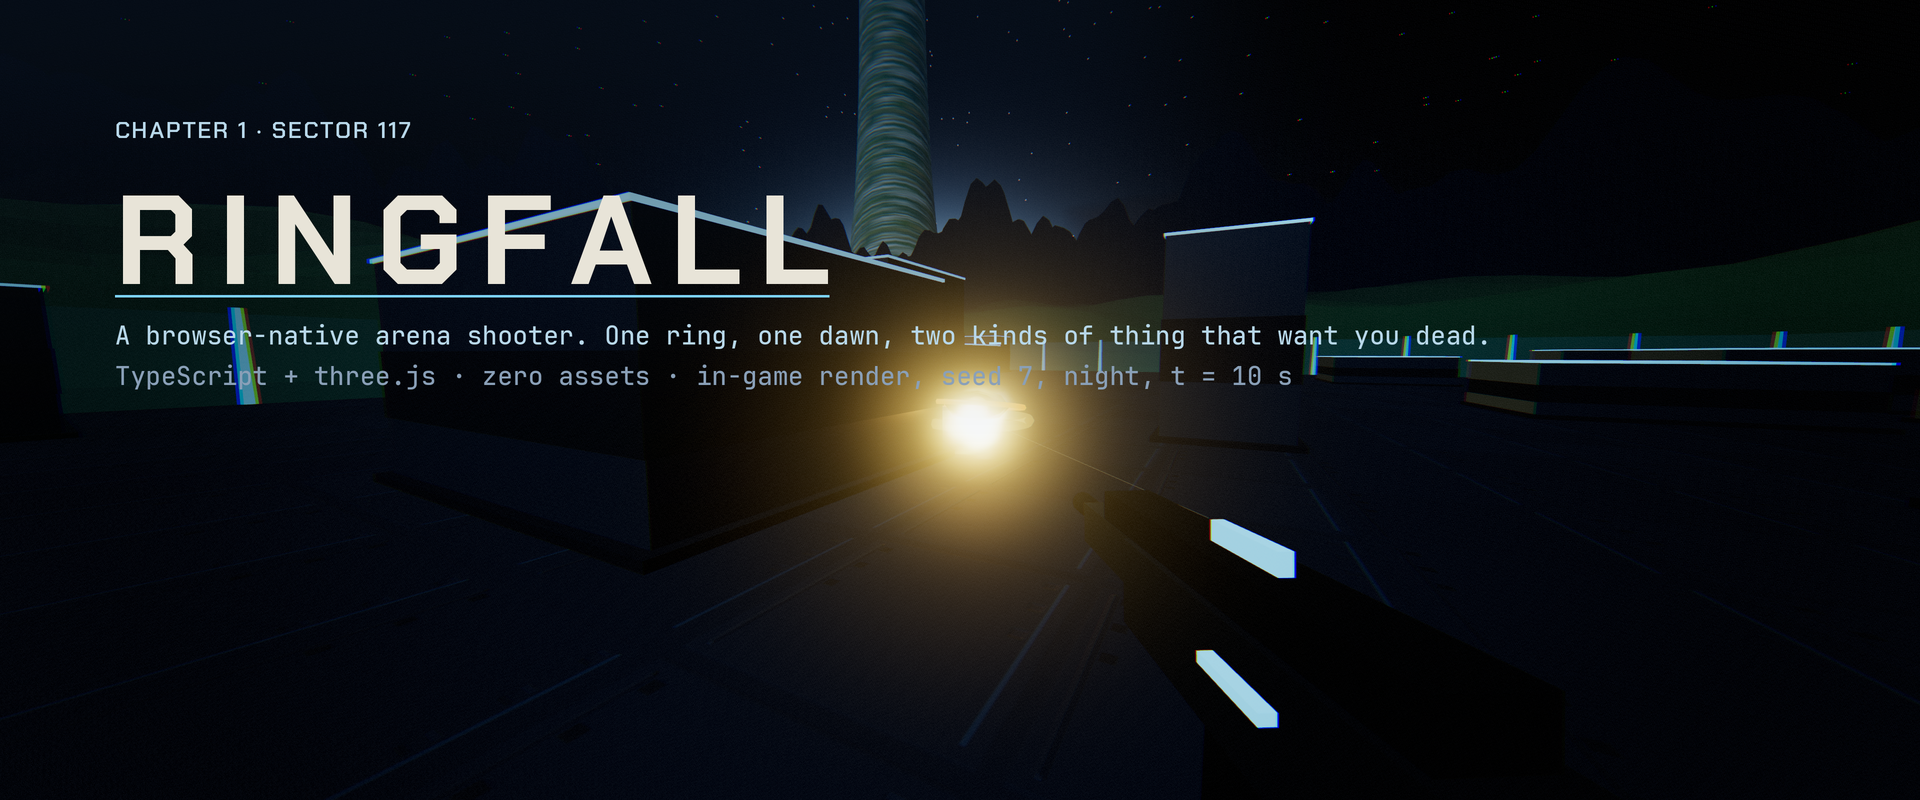
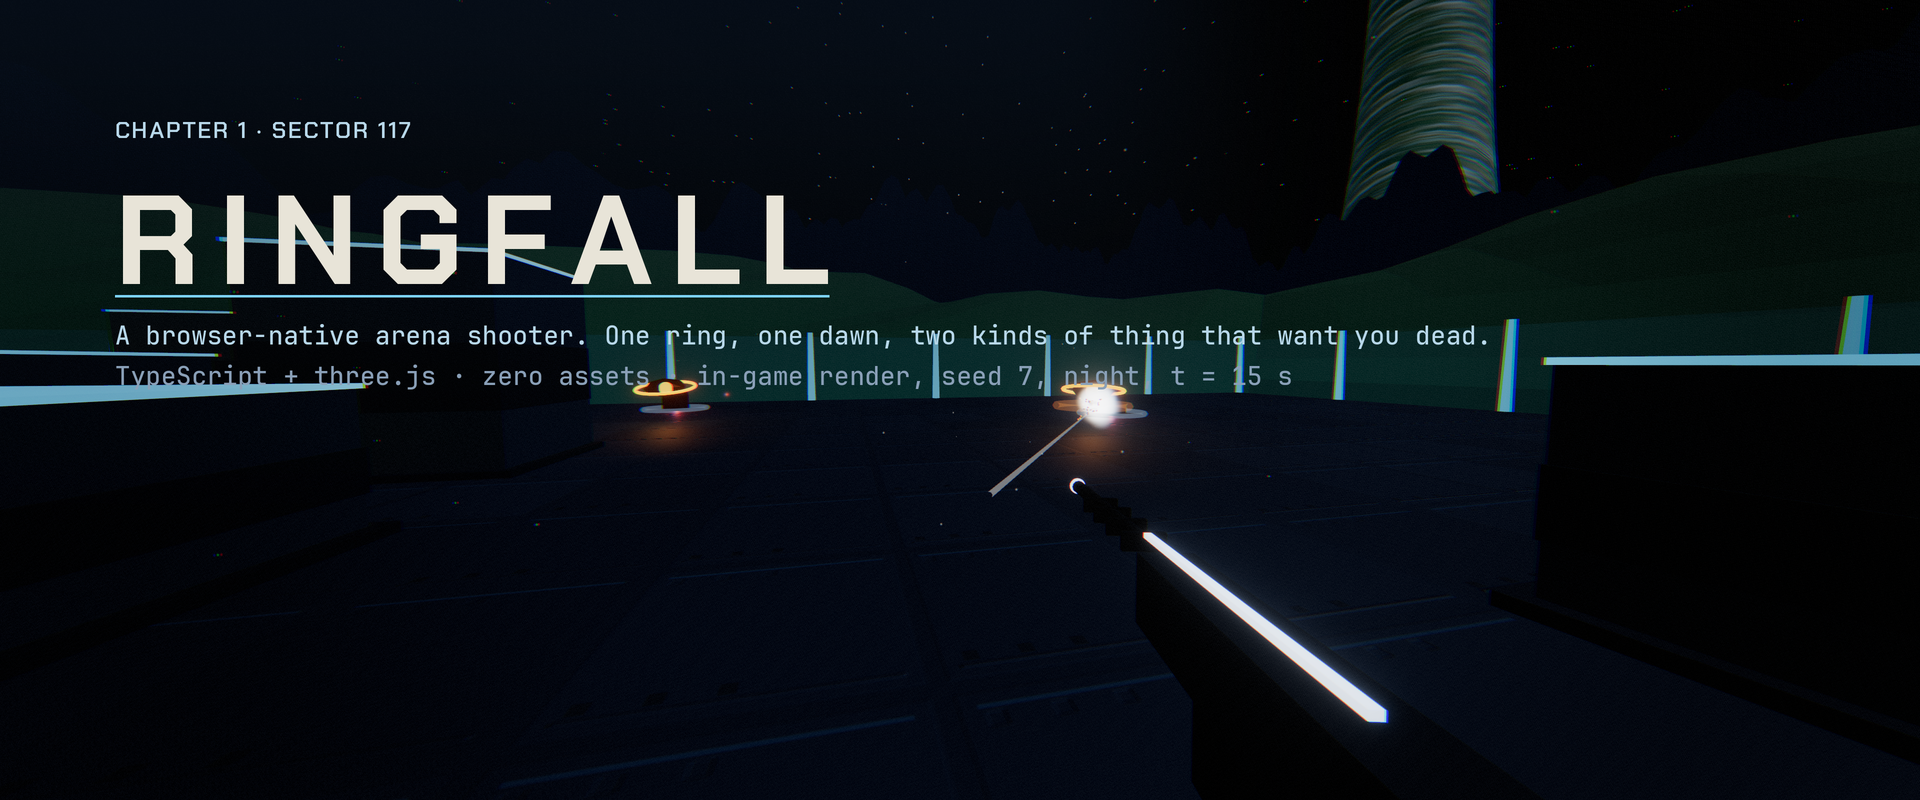
docs(brand): re-render the hero, strip and loop from the fixed renderer (#101)
Banner, social card, 2x WebP, strip and loop re-captured from main after the flare, explosion and night passes; moments re-found from the core's event log since seed 7's timeline moved.

Claude-Session: https://claude.ai/code/session_014zbLHkpEMQC39JFhMtHz5g

diff --git a/README.md b/README.md
@@ -1,4 +1,4 @@
-<p align="center"><img src="docs/banner.png" alt="Ringfall: an in-game render at night, seed 7, t = 10 s, with the wordmark" width="100%"></p>
+<p align="center"><img src="docs/banner.png" alt="Ringfall: an in-game render at night, seed 7, t = 15 s, with the wordmark" width="100%"></p>
 
 # Ringfall
 
@@ -7,7 +7,7 @@ want you dead. TypeScript + three.js, zero assets. Built in four hours on
 2026-10-21 by one person coaching thirty-three cloud agents; the
 [journey](docs/journey/README.md) has the clock.
 
-<p align="center"><sub>The banner is the game itself: seed 7 at night, t = 10 s, 3840x1600 with the post stack on. Recipe in <a href="docs/brand.md#hero-and-social">docs/brand.md</a>.</sub></p>
+<p align="center"><sub>The banner is the game itself: seed 7 at night, t = 15 s, 3840x1600 with the post stack on. Recipe in <a href="docs/brand.md#hero-and-social">docs/brand.md</a>.</sub></p>
 
 **[Play now](https://ringfall.alexhowells.com)** (deploys from `main`; `agh.github.io/ringfall` until DNS is set; neither is live as of 2026-10-21).
 
@@ -43,12 +43,12 @@ Requires a browser with WebGL 2 and pointer lock.
 
 | Dawn, wave 5 | Night, wave 2 | Dusk, wave 3 |
 | :---: | :---: | :---: |
-| ![Dawn: the sun flares behind the ring over the cover slabs](docs/journey/images/1740-hero-dawn-s7-t95.jpg) | ![Night: the beam weapon in hand, stars and trims](docs/journey/images/1740-hero-night-s7-t18.jpg) | ![Dusk: the laser in hand against a rose horizon](docs/journey/images/1740-hero-dusk-s7-t45.jpg) |
-| seed 7, t = 95 s, `atmo=dawn` | seed 7, t = 18 s, `atmo=night` | seed 7, t = 45 s, `atmo=dusk` |
+| ![Dawn: the sun rises behind the ridge, laser hit in wave 5](docs/journey/images/1850-hero-dawn-s7-t78.jpg) | ![Night: a skimmer in the laser sights, stars and trims](docs/journey/images/1850-hero-night-s7-t24.jpg) | ![Dusk: the laser in hand against a rose horizon](docs/journey/images/1850-hero-dusk-s7-t45.jpg) |
+| seed 7, t = 78.5 s, `atmo=dawn` | seed 7, t = 24.15 s, `atmo=night` | seed 7, t = 45 s, `atmo=dusk` |
 
 Every frame above is a headless render of the shipped build (`?record&bot&seed=7&nohud`), not an illustration.
 
-<p align="center"><img src="docs/hero/hero-loop.webp" alt="Six seconds of seed 7 at night, t = 8 to 14 s, the skimmer kill at 10 s" width="100%"><br><sub>Six seconds at 24 fps, seed 7, night, t = 8 to 14 s, from the same capture hook.</sub></p>
+<p align="center"><img src="docs/hero/hero-loop.webp" alt="Six seconds of seed 7 at night, t = 4 to 10 s, three skimmer kills" width="100%"><br><sub>Six seconds at 24 fps, seed 7, night, t = 4 to 10 s, from the same capture hook.</sub></p>
 
 ## How it works
 

diff --git a/docs/brand.md b/docs/brand.md
@@ -294,14 +294,19 @@ pin the atmosphere (`src/render/environment.ts`). Call
 so the last render sees a real 0.1 s delta for its effects, and take a PNG
 screenshot. One 4K frame costs about 30 s on software GL.
 
-**Chosen frames** (all seed 7, 3840x1600, post stack on):
+**Chosen frames** (all seed 7, 3840x1600, post stack on; current files captured
+from commit `8195bba` at 18:50 UTC on 2026-10-21, after the bloom prefilter,
+flare, explosion, dust and weapon-flash changes; the simulation changed too, so
+the moments below were re-found from the core's event log for seed 7, not
+carried over by timestamp):
 
 | Use | Moment | URL flags |
 | --- | ------ | --------- |
-| Hero, banner, social card | night, t = 10 s, wave 1 cleared, a skimmer kill glowing between the slabs | `atmo=night` |
-| Strip: dawn | t = 95 s, wave 5, the sun flares behind the ring, minigun in hand | `atmo=dawn` |
-| Strip: night | t = 18 s, wave 2, the beam in hand | `atmo=night` |
-| Strip: dusk | t = 45 s, wave 3, the laser against a rose horizon | `atmo=dusk` |
+| Hero, banner, social card | night, t = 15.15 s, wave 2, the laser's first kill 0.07 s after the hit, the ring top right | `atmo=night` |
+| Strip: dawn | t = 78.5 s, wave 5, the sun's aureole over the ridge, a laser hit mid-frame | `atmo=dawn` |
+| Strip: night | t = 24.15 s, wave 2, a skimmer's Rose ring in the laser sights | `atmo=night` |
+| Strip: dusk | t = 45 s, wave 3 cleared, the minigun and a strider burst against a rose horizon | `atmo=dusk` |
+| Loop | night, t = 4 to 10 s, three wave 1 kills, 24 fps, 960x400 | `atmo=night` |
 
 **Lockup.** Top-left, on a safe margin of 6% of the width on both axes. From
 the top: eyebrow "CHAPTER 1 · SECTOR 117" in Chakra Petch 600 at 1.2% of
@@ -315,8 +320,10 @@ else is added to the frame.
 
 **Crops and exports.** The banner is the full 2.4:1 frame: `docs/banner.png`
 at 1920x800 and `docs/hero/banner-2x.webp` at 3840x1600. The raw hero frame
-without type is `docs/hero/hero-night-seed7-t10.webp`. The social card is a
+without type is `docs/hero/hero-night-seed7-t15.webp`. The social card is a
 centered 2:1 crop of the same frame with the lockup re-set at 1.15x,
 exported to `docs/social-card.png` at 1280x640 (GitHub's repository
 preview size). Journey copies of every candidate and the contact sheet live
-under `docs/journey/images/1740-hero-*`.
+under `docs/journey/images/1740-hero-*` (17:40 build) and
+`docs/journey/images/1850-hero-*` (current); the old-versus-new sheet from
+the re-render is `docs/journey/images/1850-hero-rerender.jpg`.

diff --git a/docs/journey/README.md b/docs/journey/README.md
@@ -880,6 +880,21 @@ request.
 
 ![A drop pod with its Rose band falling toward the spawn ring under the ring arc](images/1800-dropship.jpg)
 
+## 18:50 The hero, re-rendered on the fixed renderer
+
+The banner, social card, README strip and the six-second loop were
+re-rendered from `8195bba`, after the bloom prefilter (#61), the second
+flare cut (#77), the explosion rework (#60), the dust and night pass (#90)
+and the weapon flash resizing (#67). The first pass kept the 17:40
+timestamps and showed that the simulation had moved too: seed 7 is a
+different game now (won at 89.6 s), so night t = 10 s had no kill in frame
+and dawn t = 95 s was post-win. The moments were re-found from the core's
+event log instead: hero at night t = 15.15 s (the laser's first kill), dawn
+t = 78.5 s, night t = 24.15 s, dusk t = 45 s, loop t = 4 to 10 s. Old
+versus new side by side: `images/1850-hero-rerender.jpg`.
+
+![Old versus new hero frames](images/1850-hero-rerender.jpg)
+
 ## Playtest reviews
 
 Each row is a human or agent watching the game play, not a screenshot.
